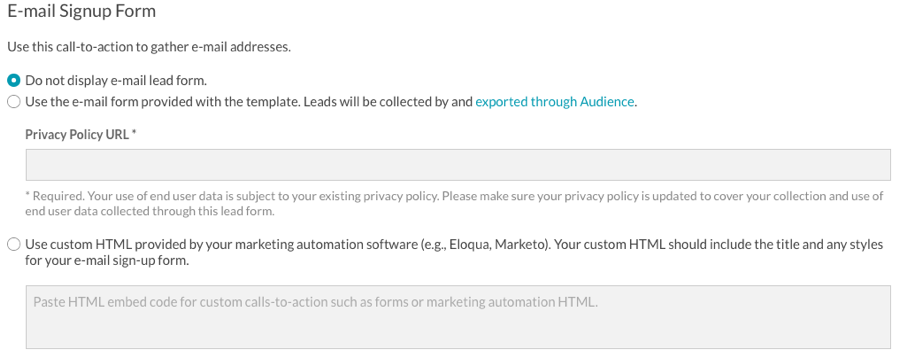
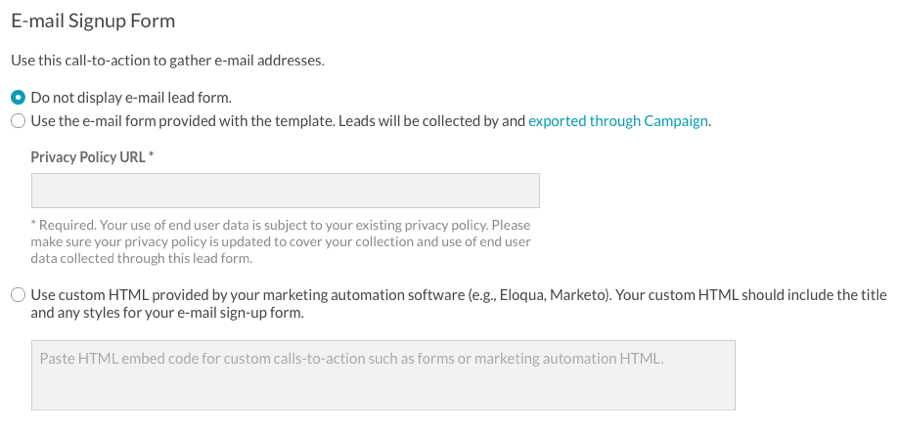
updates

diff --git a/_site/experiences/portal/overview-creating-editing-and-publishing-portal-experiences.html b/_site/experiences/portal/overview-creating-editing-and-publishing-portal-experiences.html
@@ -747,7 +747,7 @@ function doGTranslate(lang_pair) {if(lang_pair.value)lang_pair=lang_pair.value;i
       <li><strong>Calls to Action</strong> - Some templates support calls to action which include banner ads and companion ads. To learn more about configuring calls to action, see <a href="/experiences/portal/configuring-calls-action-portal-experience.html">Configuring Calls to Action on a Portal Experience</a>.</li>
       <li><strong>Appearance and Behavior</strong> - Configure the template settings, use a custom header/footer and provide custom CSS and JavaScript files. To learn more about changing the appearance and behavior, see <a href="/experiences/portal/customizing-appearance-and-behavior-portal-experience.html">Customizing the Appearance and Behavior of a Portal Experience</a>.</li>
       <li><strong>Site Features</strong> - Enable site search, configure social sharing options and allow commenting on videos. To learn more about configuring the site features, see <a href="/experiences/portal/customizing-site-features-portal-experience.html">Customizing the Site Features of a Portal Experience</a>.</li>
-      <li><strong>Video and Playback</strong> - Select a custom player for the experience, configure Audience integration and lead forms and configure videos options such as downloads and related links. To learn more about configuring the site features, see <a href="/experiences/portal/customizing-video-and-playback-settings-portal-experience.html">Customizing the Video and Playback Settings of a Portal Experience</a>.</li>
+      <li><strong>Video and Playback</strong> - Select a custom player for the experience, configure Campaign integration and lead forms and configure videos options such as downloads and related links. To learn more about configuring the site features, see <a href="/experiences/portal/customizing-video-and-playback-settings-portal-experience.html">Customizing the Video and Playback Settings of a Portal Experience</a>.</li>
       <li><strong>Site Configuration</strong> - Host the site at a custom domain, secure it using SSL or restrict access to the site. To learn more about site configuration, see <a href="/experiences/portal/customizing-site-configuration-portal-experience.html">Customizing the Site Configuration of a Portal Experience</a>.</li>
       <li><strong>Overview</strong> - Edit the name, description and language for the site. To learn more about editing the site overview, see <a href="/experiences/portal/configuring-details-portal-experience.html">Configuring the Details for a Portal Experience</a>.</li>
     </ul>

diff --git a/experiences/portal/overview-creating-editing-and-publishing-portal-experiences.html b/experiences/portal/overview-creating-editing-and-publishing-portal-experiences.html
@@ -37,7 +37,7 @@ description: In this topic you will learn about the basic steps to create, edit 
       <li><strong>Calls to Action</strong> - Some templates support calls to action which include banner ads and companion ads. To learn more about configuring calls to action, see <a href="/experiences/portal/configuring-calls-action-portal-experience.html">Configuring Calls to Action on a Portal Experience</a>.</li>
       <li><strong>Appearance and Behavior</strong> - Configure the template settings, use a custom header/footer and provide custom CSS and JavaScript files. To learn more about changing the appearance and behavior, see <a href="/experiences/portal/customizing-appearance-and-behavior-portal-experience.html">Customizing the Appearance and Behavior of a Portal Experience</a>.</li>
       <li><strong>Site Features</strong> - Enable site search, configure social sharing options and allow commenting on videos. To learn more about configuring the site features, see <a href="/experiences/portal/customizing-site-features-portal-experience.html">Customizing the Site Features of a Portal Experience</a>.</li>
-      <li><strong>Video and Playback</strong> - Select a custom player for the experience, configure Audience integration and lead forms and configure videos options such as downloads and related links. To learn more about configuring the site features, see <a href="/experiences/portal/customizing-video-and-playback-settings-portal-experience.html">Customizing the Video and Playback Settings of a Portal Experience</a>.</li>
+      <li><strong>Video and Playback</strong> - Select a custom player for the experience, configure Campaign integration and lead forms and configure videos options such as downloads and related links. To learn more about configuring the site features, see <a href="/experiences/portal/customizing-video-and-playback-settings-portal-experience.html">Customizing the Video and Playback Settings of a Portal Experience</a>.</li>
       <li><strong>Site Configuration</strong> - Host the site at a custom domain, secure it using SSL or restrict access to the site. To learn more about site configuration, see <a href="/experiences/portal/customizing-site-configuration-portal-experience.html">Customizing the Site Configuration of a Portal Experience</a>.</li>
       <li><strong>Overview</strong> - Edit the name, description and language for the site. To learn more about editing the site overview, see <a href="/experiences/portal/configuring-details-portal-experience.html">Configuring the Details for a Portal Experience</a>.</li>
     </ul>

diff --git a/_site/experiences/portal/customizing-video-and-playback-settings-portal-experience.html b/_site/experiences/portal/customizing-video-and-playback-settings-portal-experience.html
@@ -720,13 +720,13 @@ function doGTranslate(lang_pair) {if(lang_pair.value)lang_pair=lang_pair.value;i
   <section class="bcls-section">
     <p>To configure the video and playback settings for a Portal Experience, edit the experience and click <strong>VIDEO AND PLAYBACK</strong> in the left navigation. The following settings are available:</p>
     <ul>
-      <li><a href="#player">Player and Lead Form</a> - Select a player and Audience lead form for the experience</li>
+      <li><a href="#player">Player and Lead Form</a> - Select a player and Campaign lead form for the experience</li>
       <li><a href="#video">Video</a> - Configure video downloads, related links and description</li>
     </ul>
   </section>
   <section class="bcls-section">
     <h2 id="player">Configuring player and lead form settings</h2>
-    <p>The Player and Lead Form settings allow you to select a custom player for the experience and customize the player behavior. It's also possible to select an Audience lead form and Audience connection. For information on configuring the Player and Lead form settings, see <a href="customizing-player-and-lead-form-settings-portal-experience.html">Customizing the Player and Lead Form Settings for a Portal Experience</a>.</p>
+    <p>The Player and Lead Form settings allow you to select a custom player for the experience and customize the player behavior. It's also possible to select a Campaign lead form and Campaign connection. For information on configuring the Player and Lead form settings, see <a href="customizing-player-and-lead-form-settings-portal-experience.html">Customizing the Player and Lead Form Settings for a Portal Experience</a>.</p>
   </section>
   <section class="bcls-section">
     <h2 id="video">Configuring video settings</h2>

diff --git a/experiences/portal/customizing-video-and-playback-settings-portal-experience.html b/experiences/portal/customizing-video-and-playback-settings-portal-experience.html
@@ -10,13 +10,13 @@ description: In this topic you will learn how to customizing the video and playb
   <section class="bcls-section">
     <p>To configure the video and playback settings for a Portal Experience, edit the experience and click <strong>VIDEO AND PLAYBACK</strong> in the left navigation. The following settings are available:</p>
     <ul>
-      <li><a href="#player">Player and Lead Form</a> - Select a player and Audience lead form for the experience</li>
+      <li><a href="#player">Player and Lead Form</a> - Select a player and Campaign lead form for the experience</li>
       <li><a href="#video">Video</a> - Configure video downloads, related links and description</li>
     </ul>
   </section>
   <section class="bcls-section">
     <h2 id="player">Configuring player and lead form settings</h2>
-    <p>The Player and Lead Form settings allow you to select a custom player for the experience and customize the player behavior. It's also possible to select an Audience lead form and Audience connection. For information on configuring the Player and Lead form settings, see <a href="customizing-player-and-lead-form-settings-portal-experience.html">Customizing the Player and Lead Form Settings for a Portal Experience</a>.</p>
+    <p>The Player and Lead Form settings allow you to select a custom player for the experience and customize the player behavior. It's also possible to select a Campaign lead form and Campaign connection. For information on configuring the Player and Lead form settings, see <a href="customizing-player-and-lead-form-settings-portal-experience.html">Customizing the Player and Lead Form Settings for a Portal Experience</a>.</p>
   </section>
   <section class="bcls-section">
     <h2 id="video">Configuring video settings</h2>

diff --git a/_site/release-notes/gallery-release-notes.html b/_site/release-notes/gallery-release-notes.html
@@ -746,7 +746,7 @@ function doGTranslate(lang_pair) {if(lang_pair.value)lang_pair=lang_pair.value;i
     <p>When adding videos to an In-Page Experience, there is now an option to use a playlist reference ID. By using a playlist reference ID, the videos in the experience can easily by changed by re-assigning the reference ID to another playlist using the Media module. The experience doesn't need to be edited and republished when&nbsp;you need to change the videos that appear in the experience. For information, see <a href="/experiences/inpage/adding-videos-page-experience.html#useplaylistrefID">Using a playlist reference ID</a>.</p>
     <h2>Changes to Lead Forms</h2>
     <h4>15 May 2018</h4>
-    <p>Gallery now uses the Audience module to create and manage lead forms. Audience will collect the lead data and provides a data export option. For information, see <a href="/experiences/portal/using-lead-form-portal-experience.html">Using a Lead Form with a Portal Experience</a>.</p>
+    <p>Gallery now uses the Camapign module to create and manage lead forms. Camapign will collect the lead data and provides a data export option. For information, see <a href="/experiences/portal/using-lead-form-portal-experience.html">Using a Lead Form with a Portal Experience</a>.</p>
     <h2>Live Event In-Page Template</h2>
     <h4>14 May 2018</h4>
     <p>Gallery now provides a Live Event In-Page template which can be used to deliver live events as part of an In-Page Experience. For information, see <a href="/experiences/live/creating-live-event-page-experience.html">Creating a Live Event In-Page Experience</a>.</p>

diff --git a/release-notes/gallery-release-notes.html b/release-notes/gallery-release-notes.html
@@ -36,7 +36,7 @@ description: This topic outlines the updates that have been made to the Brightco
     <p>When adding videos to an In-Page Experience, there is now an option to use a playlist reference ID. By using a playlist reference ID, the videos in the experience can easily by changed by re-assigning the reference ID to another playlist using the Media module. The experience doesn't need to be edited and republished when&nbsp;you need to change the videos that appear in the experience. For information, see <a href="/experiences/inpage/adding-videos-page-experience.html#useplaylistrefID">Using a playlist reference ID</a>.</p>
     <h2>Changes to Lead Forms</h2>
     <h4>15 May 2018</h4>
-    <p>Gallery now uses the Audience module to create and manage lead forms. Audience will collect the lead data and provides a data export option. For information, see <a href="/experiences/portal/using-lead-form-portal-experience.html">Using a Lead Form with a Portal Experience</a>.</p>
+    <p>Gallery now uses the Camapign module to create and manage lead forms. Camapign will collect the lead data and provides a data export option. For information, see <a href="/experiences/portal/using-lead-form-portal-experience.html">Using a Lead Form with a Portal Experience</a>.</p>
     <h2>Live Event In-Page Template</h2>
     <h4>14 May 2018</h4>
     <p>Gallery now provides a Live Event In-Page template which can be used to deliver live events as part of an In-Page Experience. For information, see <a href="/experiences/live/creating-live-event-page-experience.html">Creating a Live Event In-Page Experience</a>.</p>

diff --git a/_site/experiences/portal/using-site-editor-customize-portal-experience.html b/_site/experiences/portal/using-site-editor-customize-portal-experience.html
@@ -769,7 +769,7 @@ function doGTranslate(lang_pair) {if(lang_pair.value)lang_pair=lang_pair.value;i
   </section>
   <section class="bcls-section">
     <h2 id="video_playback">Customizing the video and playback settings</h2>
-    <p>The video and playback settings provide the ability to select a custom player for the experience, configure Audience integration and lead forms and configure videos options such as downloads and related links. To customize the video and playback settings, click <strong>VIDEO AND PLAYBACK</strong> in the left navigation.</p>
+    <p>The video and playback settings provide the ability to select a custom player for the experience, configure Campaign integration and lead forms and configure videos options such as downloads and related links. To customize the video and playback settings, click <strong>VIDEO AND PLAYBACK</strong> in the left navigation.</p>
     <p>For complete details on configuring the video and playback settings, see <a href="/experiences/portal/customizing-video-and-playback-settings-portal-experience.html">Customizing the Video and Playback Settings of a Portal Experience</a>.</p>
   </section>
   <section class="bcls-section">

diff --git a/_site/experiences/virtual-event/using-site-editor-customize-virtual-event-experience.html b/_site/experiences/virtual-event/using-site-editor-customize-virtual-event-experience.html
@@ -751,7 +751,7 @@ function doGTranslate(lang_pair) {if(lang_pair.value)lang_pair=lang_pair.value;i
   </section>
   <section class="bcls-section">
     <h2 id="video_playback">Customizing the video and playback settings</h2>
-    <p>The video and playback settings provide the ability to select a custom player for the experience, configure Audience integration and lead forms and configure videos options such as downloads and related links. To customize the video and playback settings, click <strong>VIDEO AND PLAYBACK</strong> in the left navigation.</p>
+    <p>The video and playback settings provide the ability to select a custom player for the experience, configure Campaign integration and lead forms and configure videos options such as downloads and related links. To customize the video and playback settings, click <strong>VIDEO AND PLAYBACK</strong> in the left navigation.</p>
     <p>For complete details on configuring the video and playback settings, see <a href="/experiences/portal/customizing-video-and-playback-settings-portal-experience.html">Customizing the Video and Playback Settings of a Portal Experience</a>.</p>
   </section>
   <section class="bcls-section">

diff --git a/experiences/portal/using-site-editor-customize-portal-experience.html b/experiences/portal/using-site-editor-customize-portal-experience.html
@@ -59,7 +59,7 @@ description: In this topic you will learn how to use the Site Editor to customiz
   </section>
   <section class="bcls-section">
     <h2 id="video_playback">Customizing the video and playback settings</h2>
-    <p>The video and playback settings provide the ability to select a custom player for the experience, configure Audience integration and lead forms and configure videos options such as downloads and related links. To customize the video and playback settings, click <strong>VIDEO AND PLAYBACK</strong> in the left navigation.</p>
+    <p>The video and playback settings provide the ability to select a custom player for the experience, configure Campaign integration and lead forms and configure videos options such as downloads and related links. To customize the video and playback settings, click <strong>VIDEO AND PLAYBACK</strong> in the left navigation.</p>
     <p>For complete details on configuring the video and playback settings, see <a href="/experiences/portal/customizing-video-and-playback-settings-portal-experience.html">Customizing the Video and Playback Settings of a Portal Experience</a>.</p>
   </section>
   <section class="bcls-section">

diff --git a/experiences/virtual-event/using-site-editor-customize-virtual-event-experience.html b/experiences/virtual-event/using-site-editor-customize-virtual-event-experience.html
@@ -53,7 +53,7 @@ layout: staging
   </section>
   <section class="bcls-section">
     <h2 id="video_playback">Customizing the video and playback settings</h2>
-    <p>The video and playback settings provide the ability to select a custom player for the experience, configure Audience integration and lead forms and configure videos options such as downloads and related links. To customize the video and playback settings, click <strong>VIDEO AND PLAYBACK</strong> in the left navigation.</p>
+    <p>The video and playback settings provide the ability to select a custom player for the experience, configure Campaign integration and lead forms and configure videos options such as downloads and related links. To customize the video and playback settings, click <strong>VIDEO AND PLAYBACK</strong> in the left navigation.</p>
     <p>For complete details on configuring the video and playback settings, see <a href="/experiences/portal/customizing-video-and-playback-settings-portal-experience.html">Customizing the Video and Playback Settings of a Portal Experience</a>.</p>
   </section>
   <section class="bcls-section">

diff --git a/_site/experiences/live/creating-post-event-state-portal-event-experience.html b/_site/experiences/live/creating-post-event-state-portal-event-experience.html
@@ -771,7 +771,7 @@ function doGTranslate(lang_pair) {if(lang_pair.value)lang_pair=lang_pair.value;i
       <li>Click <strong>Save</strong>.</li>
       <li>Once the email settings have been configured, return to the page and click on the <strong>Email Sign-up Message</strong> link and set the text that appears above the email sign-up field.</li>
     </ol>
-    <p>All data captured by the email form can be exported using the <a href="/experiences/portal/exporting-gallery-lead-data.html">Export Gallery Leads</a> option in the Audience module. Leads captured using custom HTML option are viewed inside of your marketing automation software.</p>
+    <p>All data captured by the email form can be exported using the <a href="/experiences/portal/exporting-gallery-lead-data.html">Export Gallery Leads</a> option in the Campaign module. Leads captured using custom HTML option are viewed inside of your marketing automation software.</p>
   </section>
   <section class="bcls-section">
     <h2 id="addvideos">Adding videos</h2>

diff --git a/experiences/live/creating-post-event-state-portal-event-experience.html b/experiences/live/creating-post-event-state-portal-event-experience.html
@@ -61,7 +61,7 @@ description: In this topic you will learn how to create the post-event state for
       <li>Click <strong>Save</strong>.</li>
       <li>Once the email settings have been configured, return to the page and click on the <strong>Email Sign-up Message</strong> link and set the text that appears above the email sign-up field.</li>
     </ol>
-    <p>All data captured by the email form can be exported using the <a href="/experiences/portal/exporting-gallery-lead-data.html">Export Gallery Leads</a> option in the Audience module. Leads captured using custom HTML option are viewed inside of your marketing automation software.</p>
+    <p>All data captured by the email form can be exported using the <a href="/experiences/portal/exporting-gallery-lead-data.html">Export Gallery Leads</a> option in the Campaign module. Leads captured using custom HTML option are viewed inside of your marketing automation software.</p>
   </section>
   <section class="bcls-section">
     <h2 id="addvideos">Adding videos</h2>
